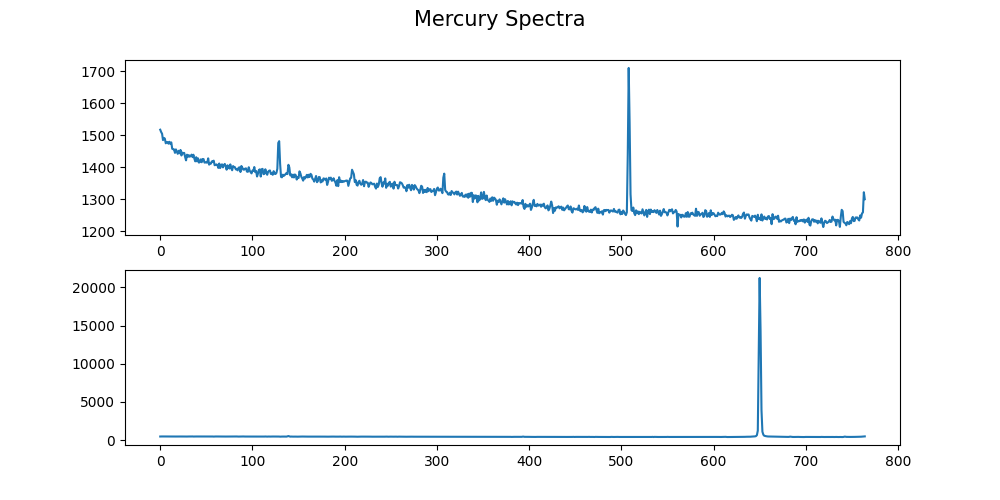
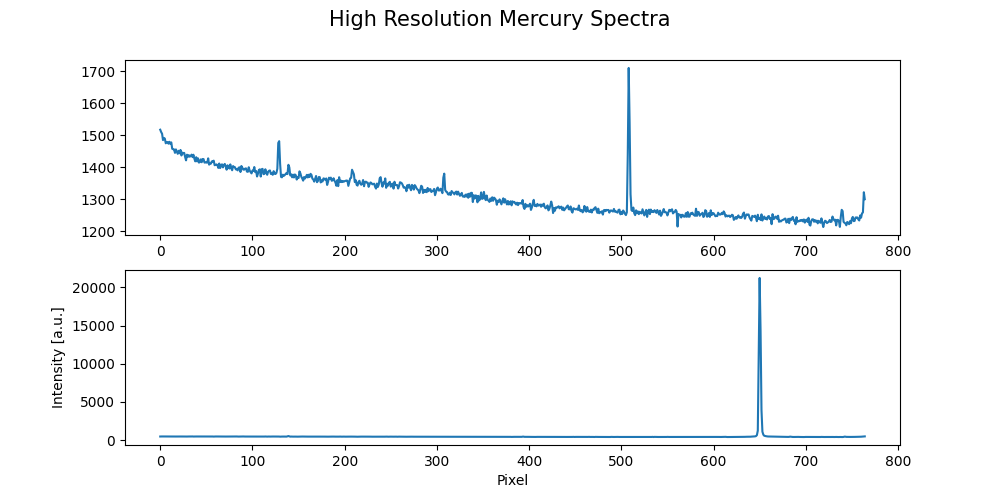
aaa

diff --git a/LAB2/LAB2.py b/LAB2/LAB2.py
@@ -33,20 +33,24 @@ hdu = pyfits.open(TestSpectrumLoResFiles['Hg'])
 
 image_hdu = hdu[0]
 spec_data = image_hdu.data
-plt.imshow(spec_data)
-#plt.show()
+# plt.imshow(spec_data)
+# plt.show()
 
 #Get central 10 rows of the image
 #print(spec_data.shape)
 img_cut = spec_data[250:260]
-plt.imshow(img_cut)
-plt.axis('off')
-#plt.show()
+# plt.imshow(img_cut)
+# plt.axis('off')
+# plt.show()
 
 #Average rows to get accurate spectrum
 spectrum = np.average(img_cut, axis=0)
-plt.plot(spectrum)
-#plt.show()
+# plt.plot(spectrum)
+# plt.xlabel('Pixel')
+# plt.ylabel('Intensity [a.u.]')
+# plt.title('Low Resolution Mercury Spectrum')
+# plt.savefig('Low Res Hg.png')
+# plt.show()
 
 def spectrum(img_data, row_min, row_max):
     return np.flip(np.average(img_data[row_min:row_max,:], axis=0))
@@ -65,24 +69,34 @@ for microm in Micrometer:
 
 for i in range(0,7,2):
     fig, (ax1, ax2) = plt.subplots(2, 1, figsize=(10, 5))
+    plt.xlabel('Pixel')
+    plt.ylabel('Intensity [a.u.]')
     im1=ax1.plot(Hg_spectra[i])
     im2=ax2.plot(Hg_spectra[i+1])
-    plt.suptitle("Mercury Spectra", fontsize=15)
-    #plt.savefig(f"Mercury Spectra {i}, {i+1}.png")
-    #plt.show()
+    plt.suptitle("High Resolution Mercury Spectra", fontsize=15)
+    plt.savefig(f"Mercury Spectra {i}, {i+1}.png")
+    plt.show()
 
-
-fig, (ax1, ax2) = plt.subplots(2, 1, figsize=(10, 5))
-im1=ax1.plot(Sun_spectra[0])
-im2=ax2.plot(Sun_spectra[1])
-plt.suptitle("Sun Spectra", fontsize=15)
-plt.savefig("Sun Spectra.png")
-#plt.show()
+# for i in range(0,7,2):
+#     fig, (ax1, ax2) = plt.subplots(2, 1, figsize=(10, 5))
+#     plt.xlabel('Pixel')
+#     plt.ylabel('Intensity [a.u.]')
+#     im1=ax1.plot(Sun_spectra[i])
+#     im2=ax2.plot(Sun_spectra[i+1])
+#     plt.suptitle("Sun Spectra", fontsize=15)
+#     plt.savefig(f"Sun Spectra{i}, {i+1}.png")
+#     plt.show()
 
 #Hg wavelengths and pixel #
 
 lambdas = [404.656, 435.833, 546.074, 576.960, 579.066, 696.543, 706.722]
 p       = [368, 660, 650, 191, 211, 583, 680]
+
+hdulist = pyfits.open('High/Hg/X_600nm_High_Hg.00000116.FIT')
+header = hdulist[0].data
+# print(len(header[0]))
+print(header[191])
+#368, 660
 
 a = (lambdas[0] - lambdas[6])/(p[0] - p[6])
 b = lambdas[0] - (p[0]*a)
